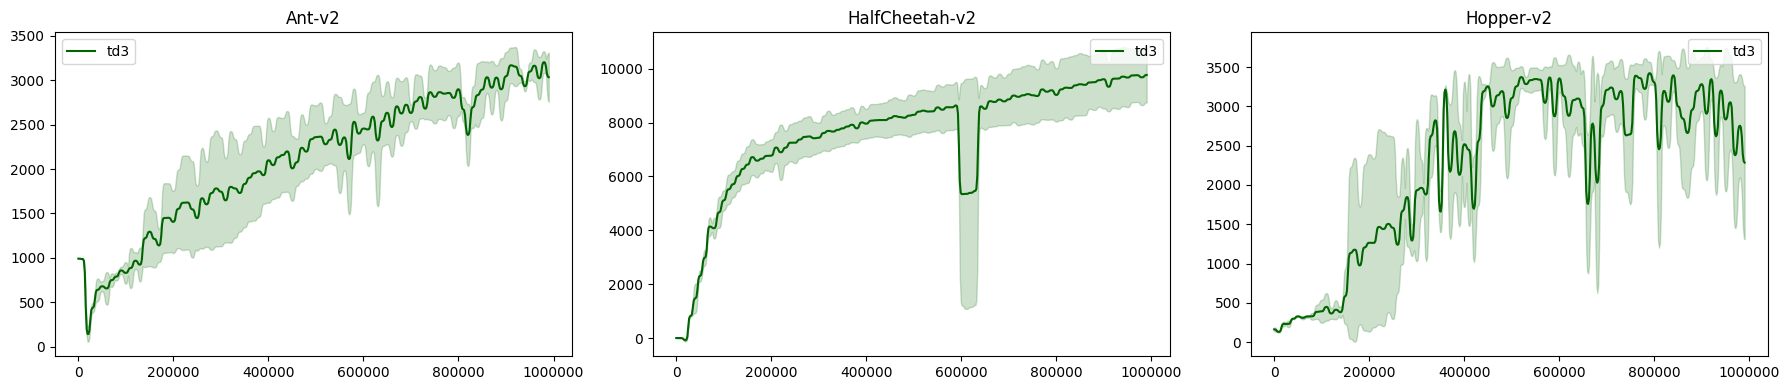
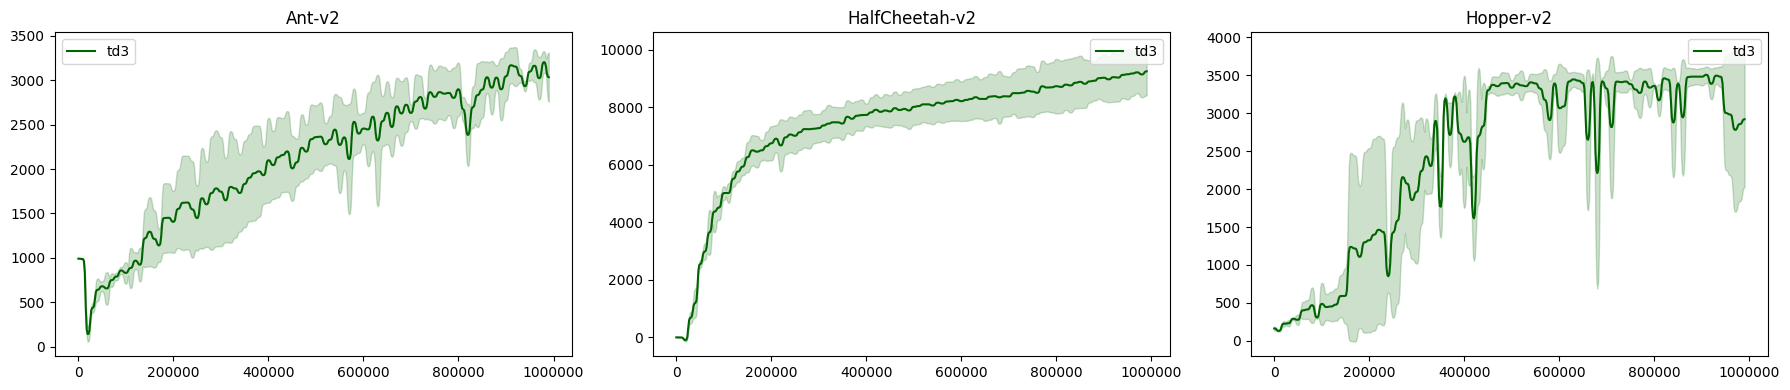
fix td3 peb bugs

diff --git a/td3/main.py b/td3/main.py
@@ -47,16 +47,16 @@ def main():
             actions = np.array([env.action_space.sample() for _ in range(env.n_envs)])
         else:
             raw_actions = actor.get_actions(states)
-            noises = np.random.normal(loc=0., scale=FLAGS.TD3.explore_noise, size=actions.shape)
+            noises = np.random.normal(loc=0., scale=FLAGS.TD3.explore_noise, size=raw_actions.shape)
             actions = np.clip(raw_actions + noises, -1, 1)
-        next_states, rewards, dones, _ = env.step(actions)
+        next_states, rewards, dones, infos = env.step(actions)
         n_returns += rewards
         n_steps += 1
         timeouts = n_steps == env.max_episode_steps
-        terminals = np.zeros_like(dones)
-        for e, done in enumerate(dones):
-            if n_steps[e] < env.max_episode_steps:
-                terminals[e] = dones[e]
+        terminals = np.copy(dones)
+        for e, info in enumerate(infos):
+            if info.get('TimeLimit.truncated', False):
+                terminals[e] = False
 
         transitions = [states, actions, next_states.copy(), rewards, terminals, timeouts.copy()]
         buffer.extend(np.rec.fromarrays(transitions, dtype=dtype))
